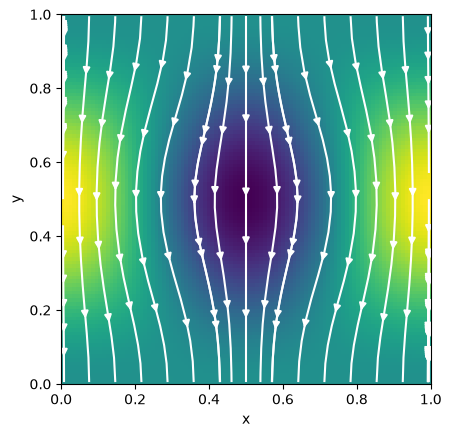
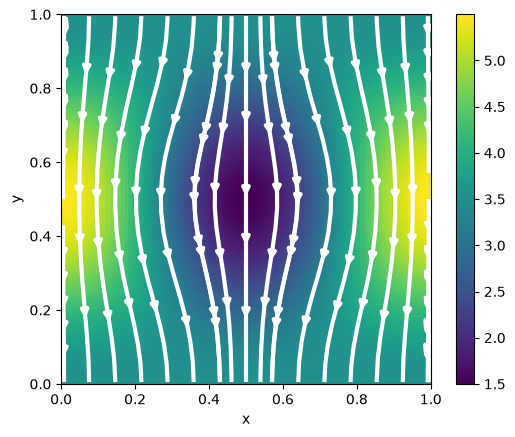
fixed some plots

diff --git a/Scripts/stokes_solver_v2.py b/Scripts/stokes_solver_v2.py
@@ -296,7 +296,7 @@ def main():
         ax.set_xlabel("x")
         ax.set_ylabel("y")
         ax.xaxis.set_major_locator(MultipleLocator(1))
-    fig1.colorbar(im0, ax=ax1, orientation='vertical', fraction=0.046, pad=0.04,  shrink=0.6)
+    fig1.colorbar(im0, ax=ax1, orientation='vertical', fraction=0.046, pad=0.04,  shrink=0.3)
     ax1[0].set_title('Error in U')
     ax1[1].set_title('Error in V')
     ax1[2].set_title('Error in P')
@@ -310,17 +310,14 @@ def main():
     # Plot mag of u
     U_vec = gridInterp(U_approx, V_approx, V_BCs)
     U_mag = np.sqrt(U_vec[0]**2 + U_vec[1]**2)
-    plt.figure()
+    fig = plt.figure()
     ax = plt.axes()
-    plt.pcolormesh(P_bundle[0], P_bundle[1], U_mag, cmap = 'viridis')
+    im = plt.pcolormesh(P_bundle[0], P_bundle[1], U_mag, cmap = 'viridis')
     plt.streamplot(P_bundle[0], P_bundle[1], U_vec[0], U_vec[1], density = 0.5, color = "white", broken_streamlines=False, num_arrows = 5)
     ax.set_aspect('equal')
     ax.set_xlabel("x")
     ax.set_ylabel("y")
-    fig1.colorbar(im0, ax=ax1, orientation='vertical', fraction=0.046, pad=0.04,  shrink=0.6)
-    ax1[0].set_title('Error in U')
-    ax1[1].set_title('Error in V')
-    ax1[2].set_title('Error in P')
+    fig.colorbar(im, ax = ax)
     plt.savefig("Images\\mag_u.png", bbox_inches='tight')
 
     # Profile code
